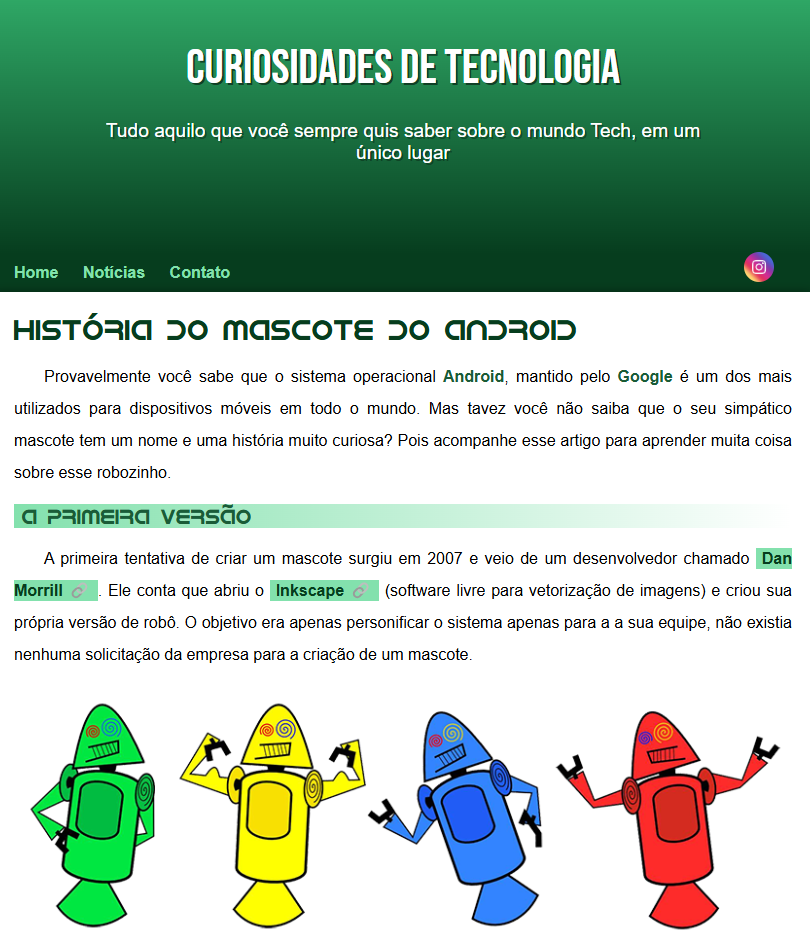
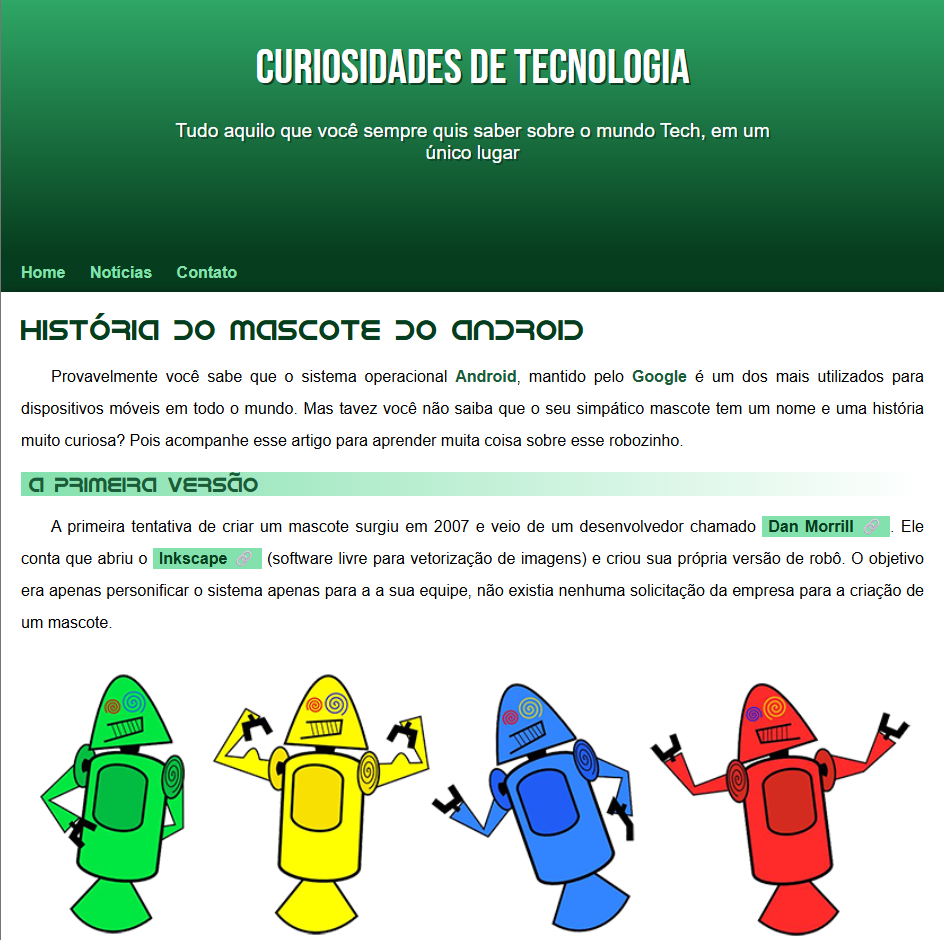
Atualização

diff --git a/index.html b/index.html
@@ -68,7 +68,7 @@
                 </section>
             </div>
             <div id="p2">
-                <img src="imagens/Captura de tela 2025-06-06 153542.png" alt="">
+                <img src="imagens/Captura de tela 2025-06-09 155851.png" alt="">
                 <section id="text">
                     <h3>Galeria</h3>
                     <p>Uma "Galeria Online" onde você consegue armazenar imagens com a "URL" da imagem ou "escolher o arquivo". Ela armazenas as imagens no navegador, permitindo você recarregar a página sem as imagens sairem!</p>

diff --git a/estilos/media-query.style.css b/estilos/media-query.style.css
@@ -105,8 +105,16 @@
         height: 161px;
     }
 
+    #p2 img {
+        height: 395px;
+    }
+
     #p3 img {
         height: 365px;
+    }
+
+    #p3 > #text p {
+        height: 195px;
     }
 
     #p4 img {
